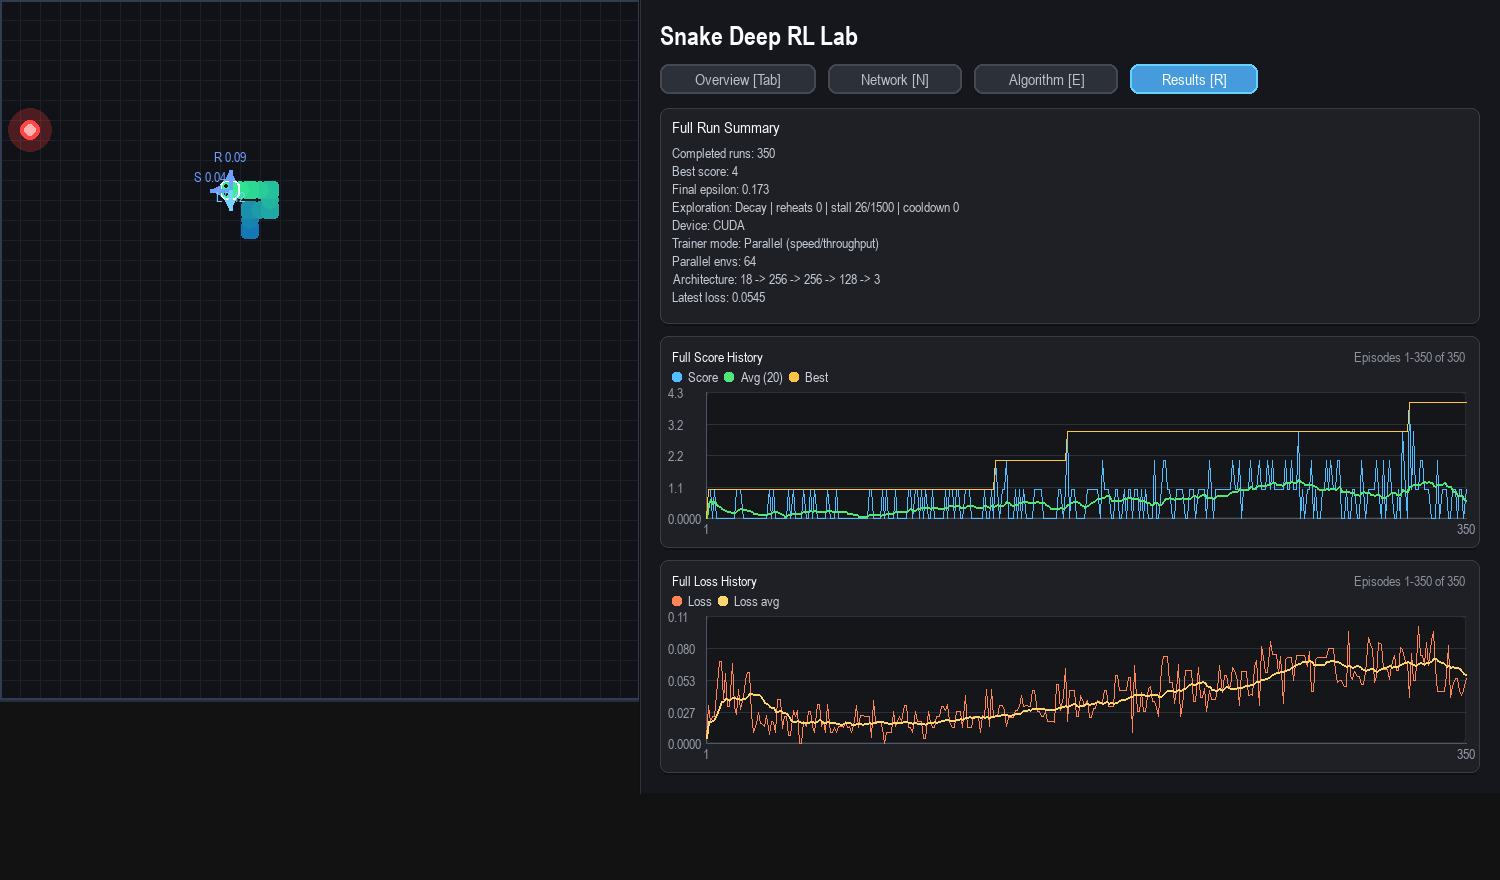
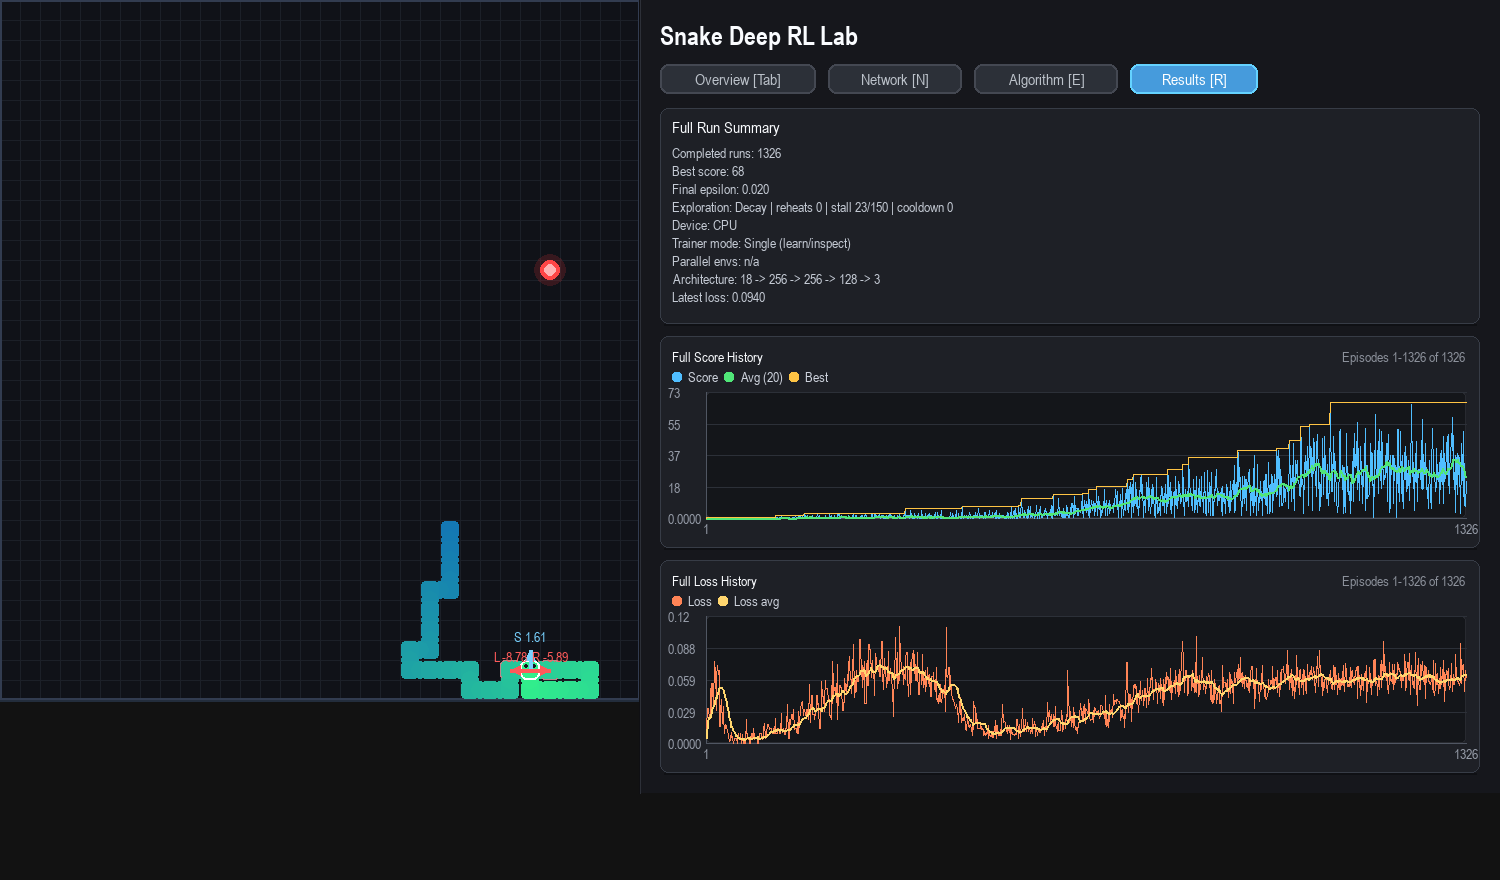
Initial commit: Snake Deep RL with dashboard and DQN - V8.1 - GUI Fix

diff --git a/dashboard.py b/dashboard.py
@@ -131,17 +131,23 @@ class TextInputControl:
 
     def get_int(self, default=1, minimum=1, maximum=999999):
         raw_value = self.text.strip()
-        if raw_value:
-            value = int(raw_value)
-        elif self.last_valid_value.strip():
-            value = int(self.last_valid_value)
-        else:
+        try:
+            if raw_value:
+                value = int(raw_value)
+            elif hasattr(self, 'last_valid_value') and self.last_valid_value.strip():
+                value = int(self.last_valid_value)
+            else:
+                value = default
+        except ValueError:
             value = default
 
-        value = max(minimum, min(maximum, value))
-        self.last_valid_value = str(value)
-        self.text = str(value)
-        return value
+        clamped_value = max(minimum, min(maximum, value))
+        
+        if not self.active:
+            self.last_valid_value = str(clamped_value)
+            self.text = str(clamped_value)
+            
+        return clamped_value
 
     def draw_data(self):
         return {
@@ -212,26 +218,22 @@ class TrainingDashboard:
         dock_padding = 18
         dock_gap = 12
         dock_y = game.board_h + 14
-        dock_h = max(138, game.logical_h - dock_y - 16)
+        dock_h = max(340, game.logical_h - dock_y - 16)
         dock_w = max(260, game.board_w - dock_padding * 2)
-        dock_control_w = min(276, max(236, int(dock_w * 0.42)))
+        dock_control_h = 176
+        
         self.bottom_dock_rect = pygame.Rect(dock_padding, dock_y, dock_w, dock_h)
-        self.bottom_control_rect = pygame.Rect(dock_padding, dock_y, dock_control_w, dock_h)
+        self.bottom_control_rect = pygame.Rect(dock_padding, dock_y, dock_w, dock_control_h)
         self.bottom_loss_rect = pygame.Rect(
-            self.bottom_control_rect.right + dock_gap,
-            dock_y,
-            dock_w - dock_control_w - dock_gap,
-            dock_h,
+            dock_padding,
+            self.bottom_control_rect.bottom + dock_gap,
+            dock_w,
+            dock_h - dock_control_h - dock_gap,
         )
         dock_inner_x = self.bottom_control_rect.x + 12
         dock_inner_w = self.bottom_control_rect.width - 24
         dock_col_w = (dock_inner_w - 10) // 2
         dock_row_y = self.bottom_control_rect.y + 18
-        loss_inner_x = self.bottom_loss_rect.x + 12
-        loss_inner_w = self.bottom_loss_rect.width - 24
-        loss_toggle_gap = 6
-        loss_toggle_w = max(84, (loss_inner_w - loss_toggle_gap * 2) // 3)
-        loss_toggle_y = self.bottom_loss_rect.y + 34
 
         self.view_mode = "overview"
         self.view_order = ["overview", "network", "algorithm"]
@@ -263,6 +265,12 @@ class TrainingDashboard:
         speed_ratio = self._speed_ratio_from_settings(initial_speed, initial_delay_ms)
         self.speed_slider = SliderControl("Training speed", 0.0, 1.0, speed_ratio, col_x, y, slider_width)
         y += 40
+        
+        loss_btn_w = (slider_width - 12) // 3
+        self.show_scores_toggle = ToggleControl("Scores [S]", True, col_x, y, loss_btn_w, 24)
+        self.show_avg_toggle = ToggleControl("Avg [M]", True, col_x + loss_btn_w + 6, y, loss_btn_w, 24)
+        self.show_best_toggle = ToggleControl("Best [B]", True, col_x + (loss_btn_w + 6) * 2, y, loss_btn_w, 24)
+        y += 32
         
         y += 18
         self.food_reward_slider = SliderControl(
@@ -354,31 +362,6 @@ class TrainingDashboard:
         self.single_trainer_button = ButtonControl("Single [J]", dock_inner_x, dock_row_y, dock_col_w, 22, "trainer_single")
         self.parallel_trainer_button = ButtonControl("Parallel [P]", dock_inner_x + dock_col_w + 10, dock_row_y, dock_col_w, 22, "trainer_parallel")
         y += 32
-
-        self.show_scores_toggle = ToggleControl(
-            "Scores [S]",
-            True,
-            loss_inner_x,
-            loss_toggle_y,
-            loss_toggle_w,
-            24,
-        )
-        self.show_avg_toggle = ToggleControl(
-            "Avg [M]",
-            True,
-            loss_inner_x + loss_toggle_w + loss_toggle_gap,
-            loss_toggle_y,
-            loss_toggle_w,
-            24,
-        )
-        self.show_best_toggle = ToggleControl(
-            "Best [B]",
-            True,
-            loss_inner_x + (loss_toggle_w + loss_toggle_gap) * 2,
-            loss_toggle_y,
-            loss_toggle_w,
-            24,
-        )
 
         self.sliders = [
             self.speed_slider,
@@ -1134,11 +1117,6 @@ class TrainingDashboard:
         algorithm_sections = self._build_algorithm_sections(agent, action_info, context)
         control_sections = self._build_control_sections()
         bottom_dock = self._build_bottom_dock_layout()
-        graph_toggles = [
-            self.show_scores_toggle.draw_data(),
-            self.show_avg_toggle.draw_data(),
-            self.show_best_toggle.draw_data(),
-        ]
         board_mode = "parallel_bulk" if parallel_bulk_mode else "snake"
         board_panel = {}
         if parallel_bulk_mode:
@@ -1177,11 +1155,6 @@ class TrainingDashboard:
                 toggle.draw_data()
                 for toggle in self.toggles
                 if (self.started or toggle is not self.pause_toggle)
-                and toggle not in (
-                    self.show_scores_toggle,
-                    self.show_avg_toggle,
-                    self.show_best_toggle,
-                )
             ],
             "inputs": [input_control.draw_data() for input_control in self.inputs],
             "show_arrows": self.show_arrows_toggle.value,
@@ -1208,7 +1181,6 @@ class TrainingDashboard:
             "control_sections": control_sections,
             "bottom_dock": bottom_dock,
             "loss_graph_series": loss_graph_series,
-            "graph_toggles": graph_toggles,
             "results_ready": self.results_ready,
             "results_score_series": results_score_series,
             "results_loss_series": results_loss_series,

diff --git a/snake_game.py b/snake_game.py
@@ -936,9 +936,9 @@ class SnakeGameAI(SnakeLogicEnv):
 
         bulk_card = data.get("decision_card_mode") == "bulk"
         if bulk_card:
-            q_h = max(174, min(220, int(right_content.height * 0.38)))
+            q_h = max(184, min(240, int(right_content.height * 0.38)))
         else:
-            q_h = max(146, min(176, int(right_content.height * 0.30)))
+            q_h = max(192, min(220, int(right_content.height * 0.35)))
         q_rect = pygame.Rect(right_content.x, right_content.y, right_content.width, q_h)
         if data.get("q_values") is not None:
             self._draw_q_values(q_rect, data)
@@ -998,7 +998,6 @@ class SnakeGameAI(SnakeLogicEnv):
                 loss_rect_data["h"],
             )
             self._draw_loss_graph(loss_rect, data)
-            self._draw_inline_toggles(data.get("graph_toggles", []))
 
     def _draw_inline_toggles(self, toggles):
         for toggle in toggles or []:

diff --git a/app_core.py b/app_core.py
@@ -1866,7 +1866,7 @@ def train_session(
     initial_reward_config = checkpoint_state.get("reward_config", DEFAULT_REWARD_CONFIG)
     deep_history = checkpoint_state.get("deep_history", deep_history)
 
-    game = SnakeGameAI(w=640, h=700, window_h=880, render=render, speed=speed)
+    game = SnakeGameAI(w=480, h=480, window_h=880, render=render, speed=speed)
     dashboard = TrainingDashboard(
         game,
         initial_speed=speed,
@@ -2352,7 +2352,7 @@ def run_visualizer_session(checkpoint_path, metrics_log_path, speed, device_pref
     deep_history = checkpoint_state.get("deep_history", histories.get("deep", {}))
     baseline_history = histories.get("tabular", {})
 
-    game = SnakeGameAI(w=640, h=700, window_h=880, render=True, speed=speed)
+    game = SnakeGameAI(w=480, h=480, window_h=880, render=True, speed=speed)
     dashboard = TrainingDashboard(
         game,
         initial_speed=speed,
